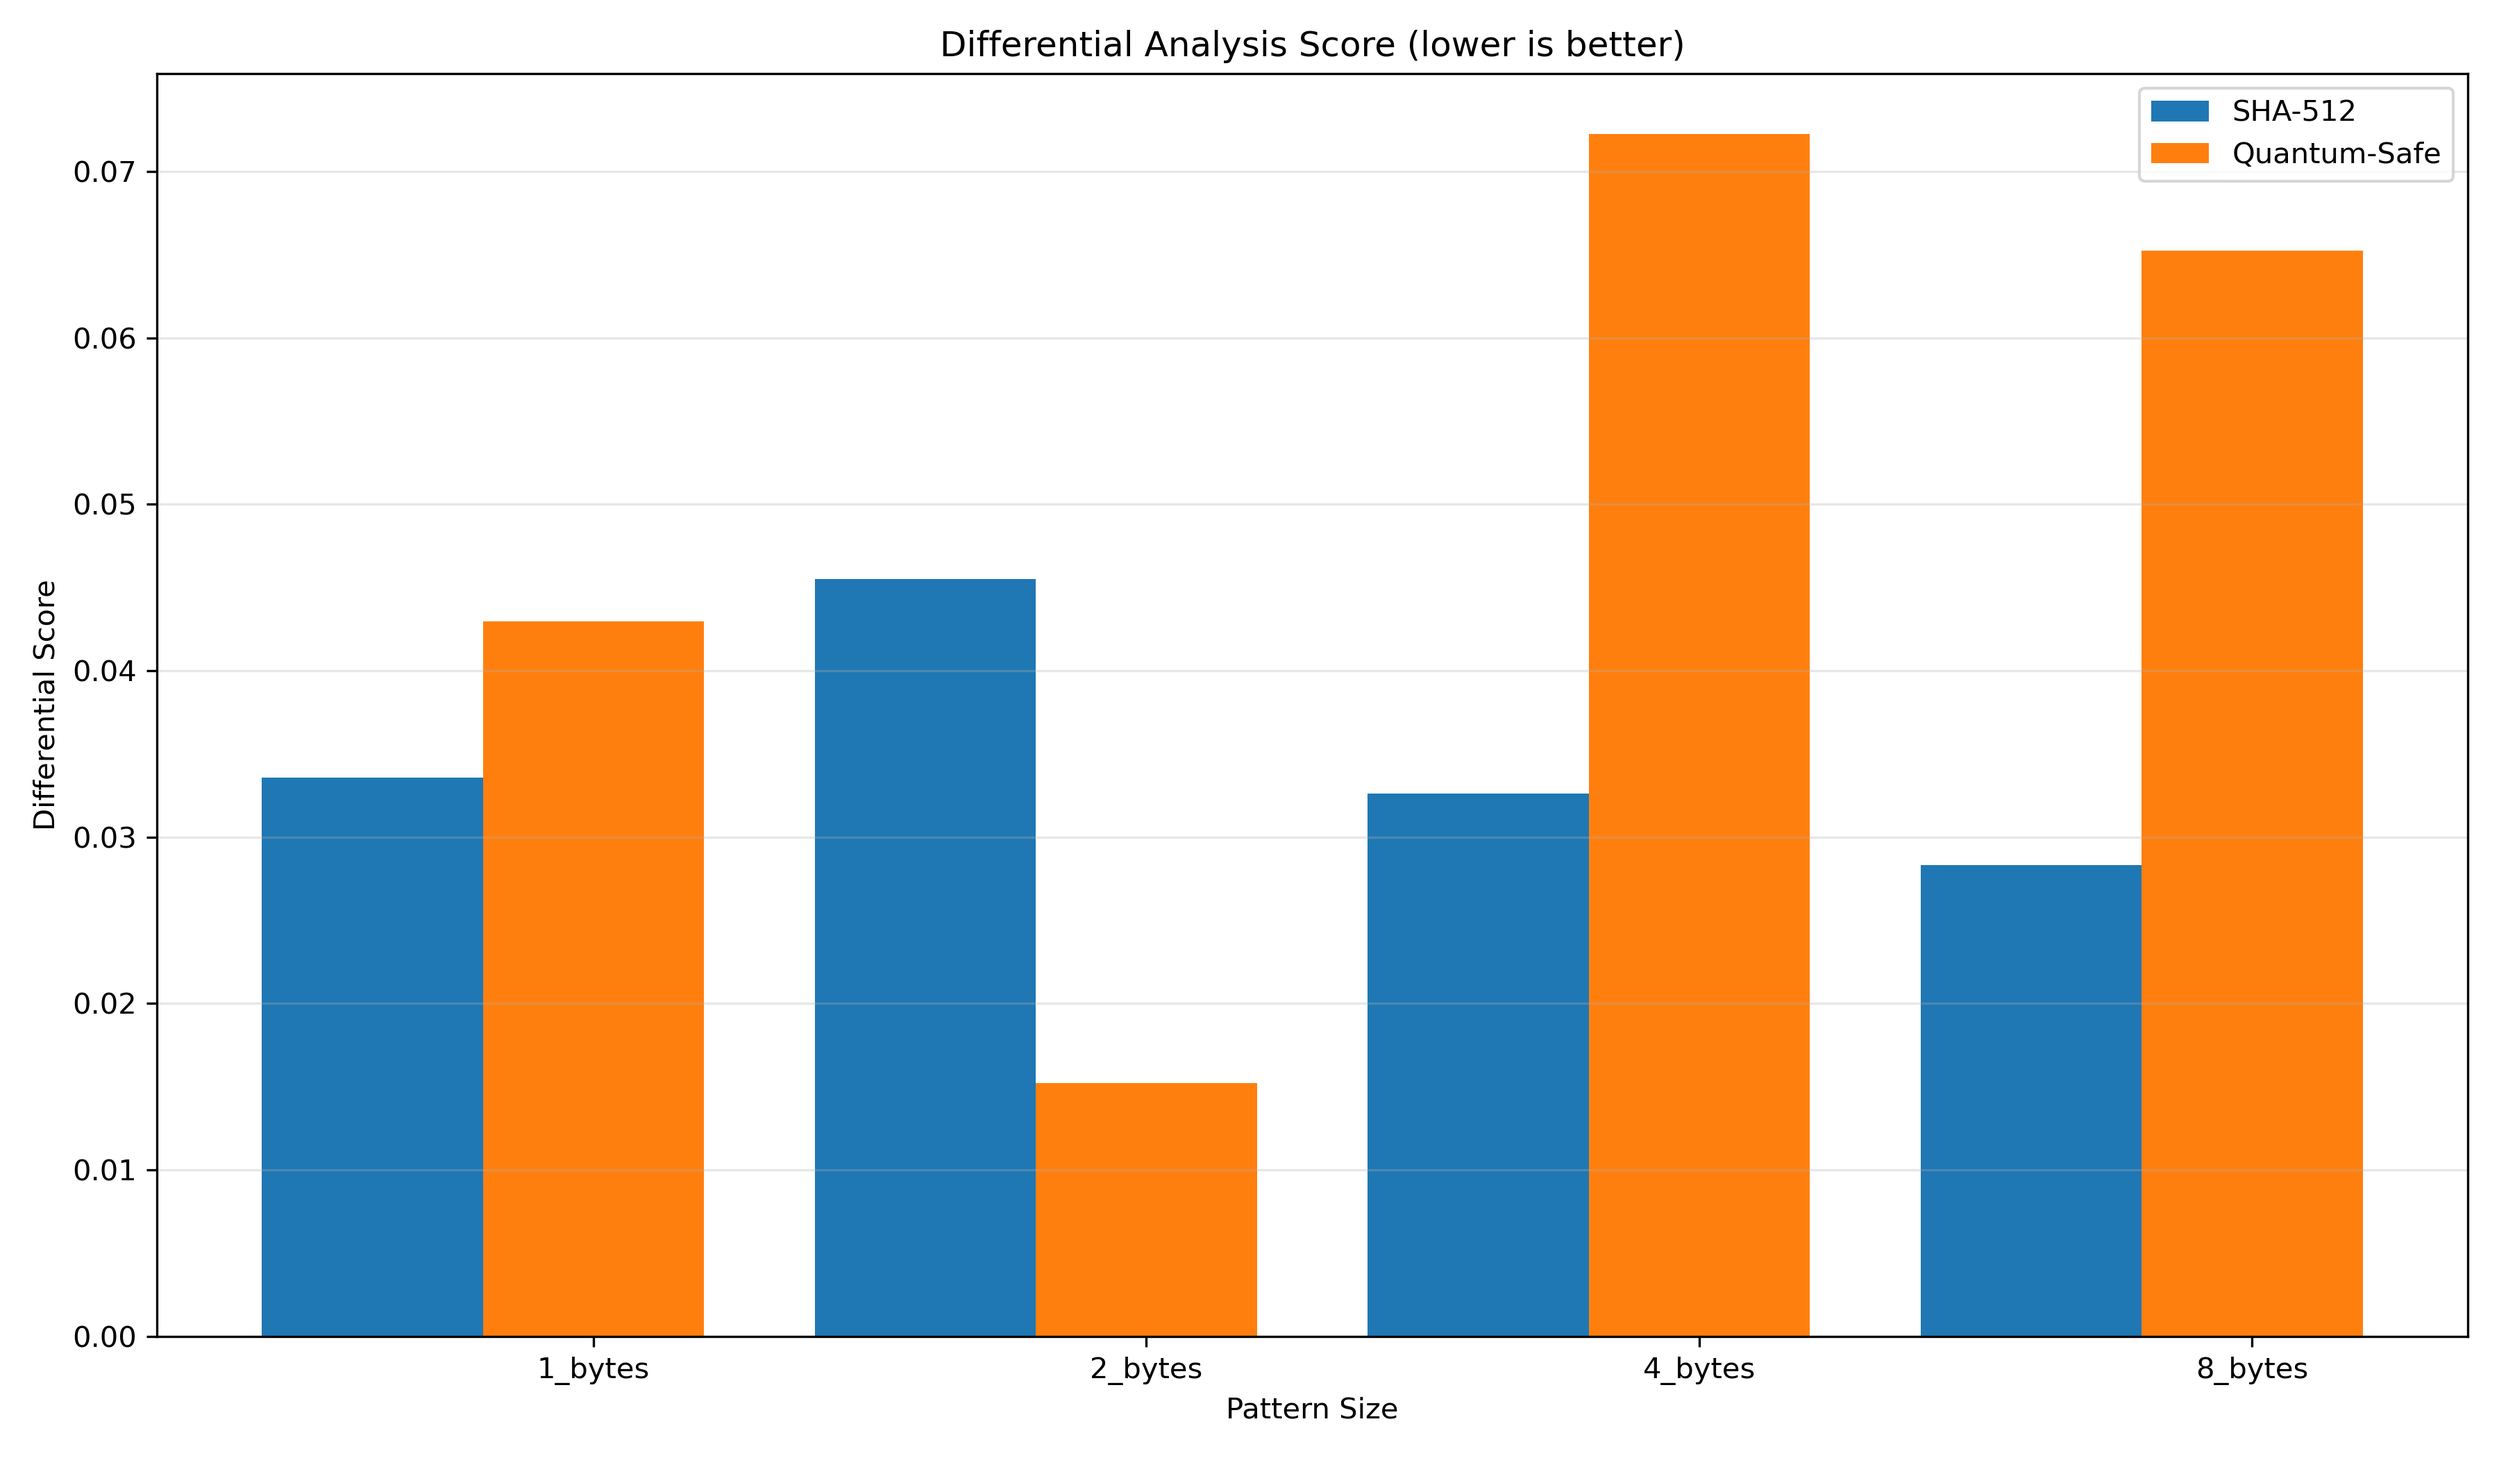
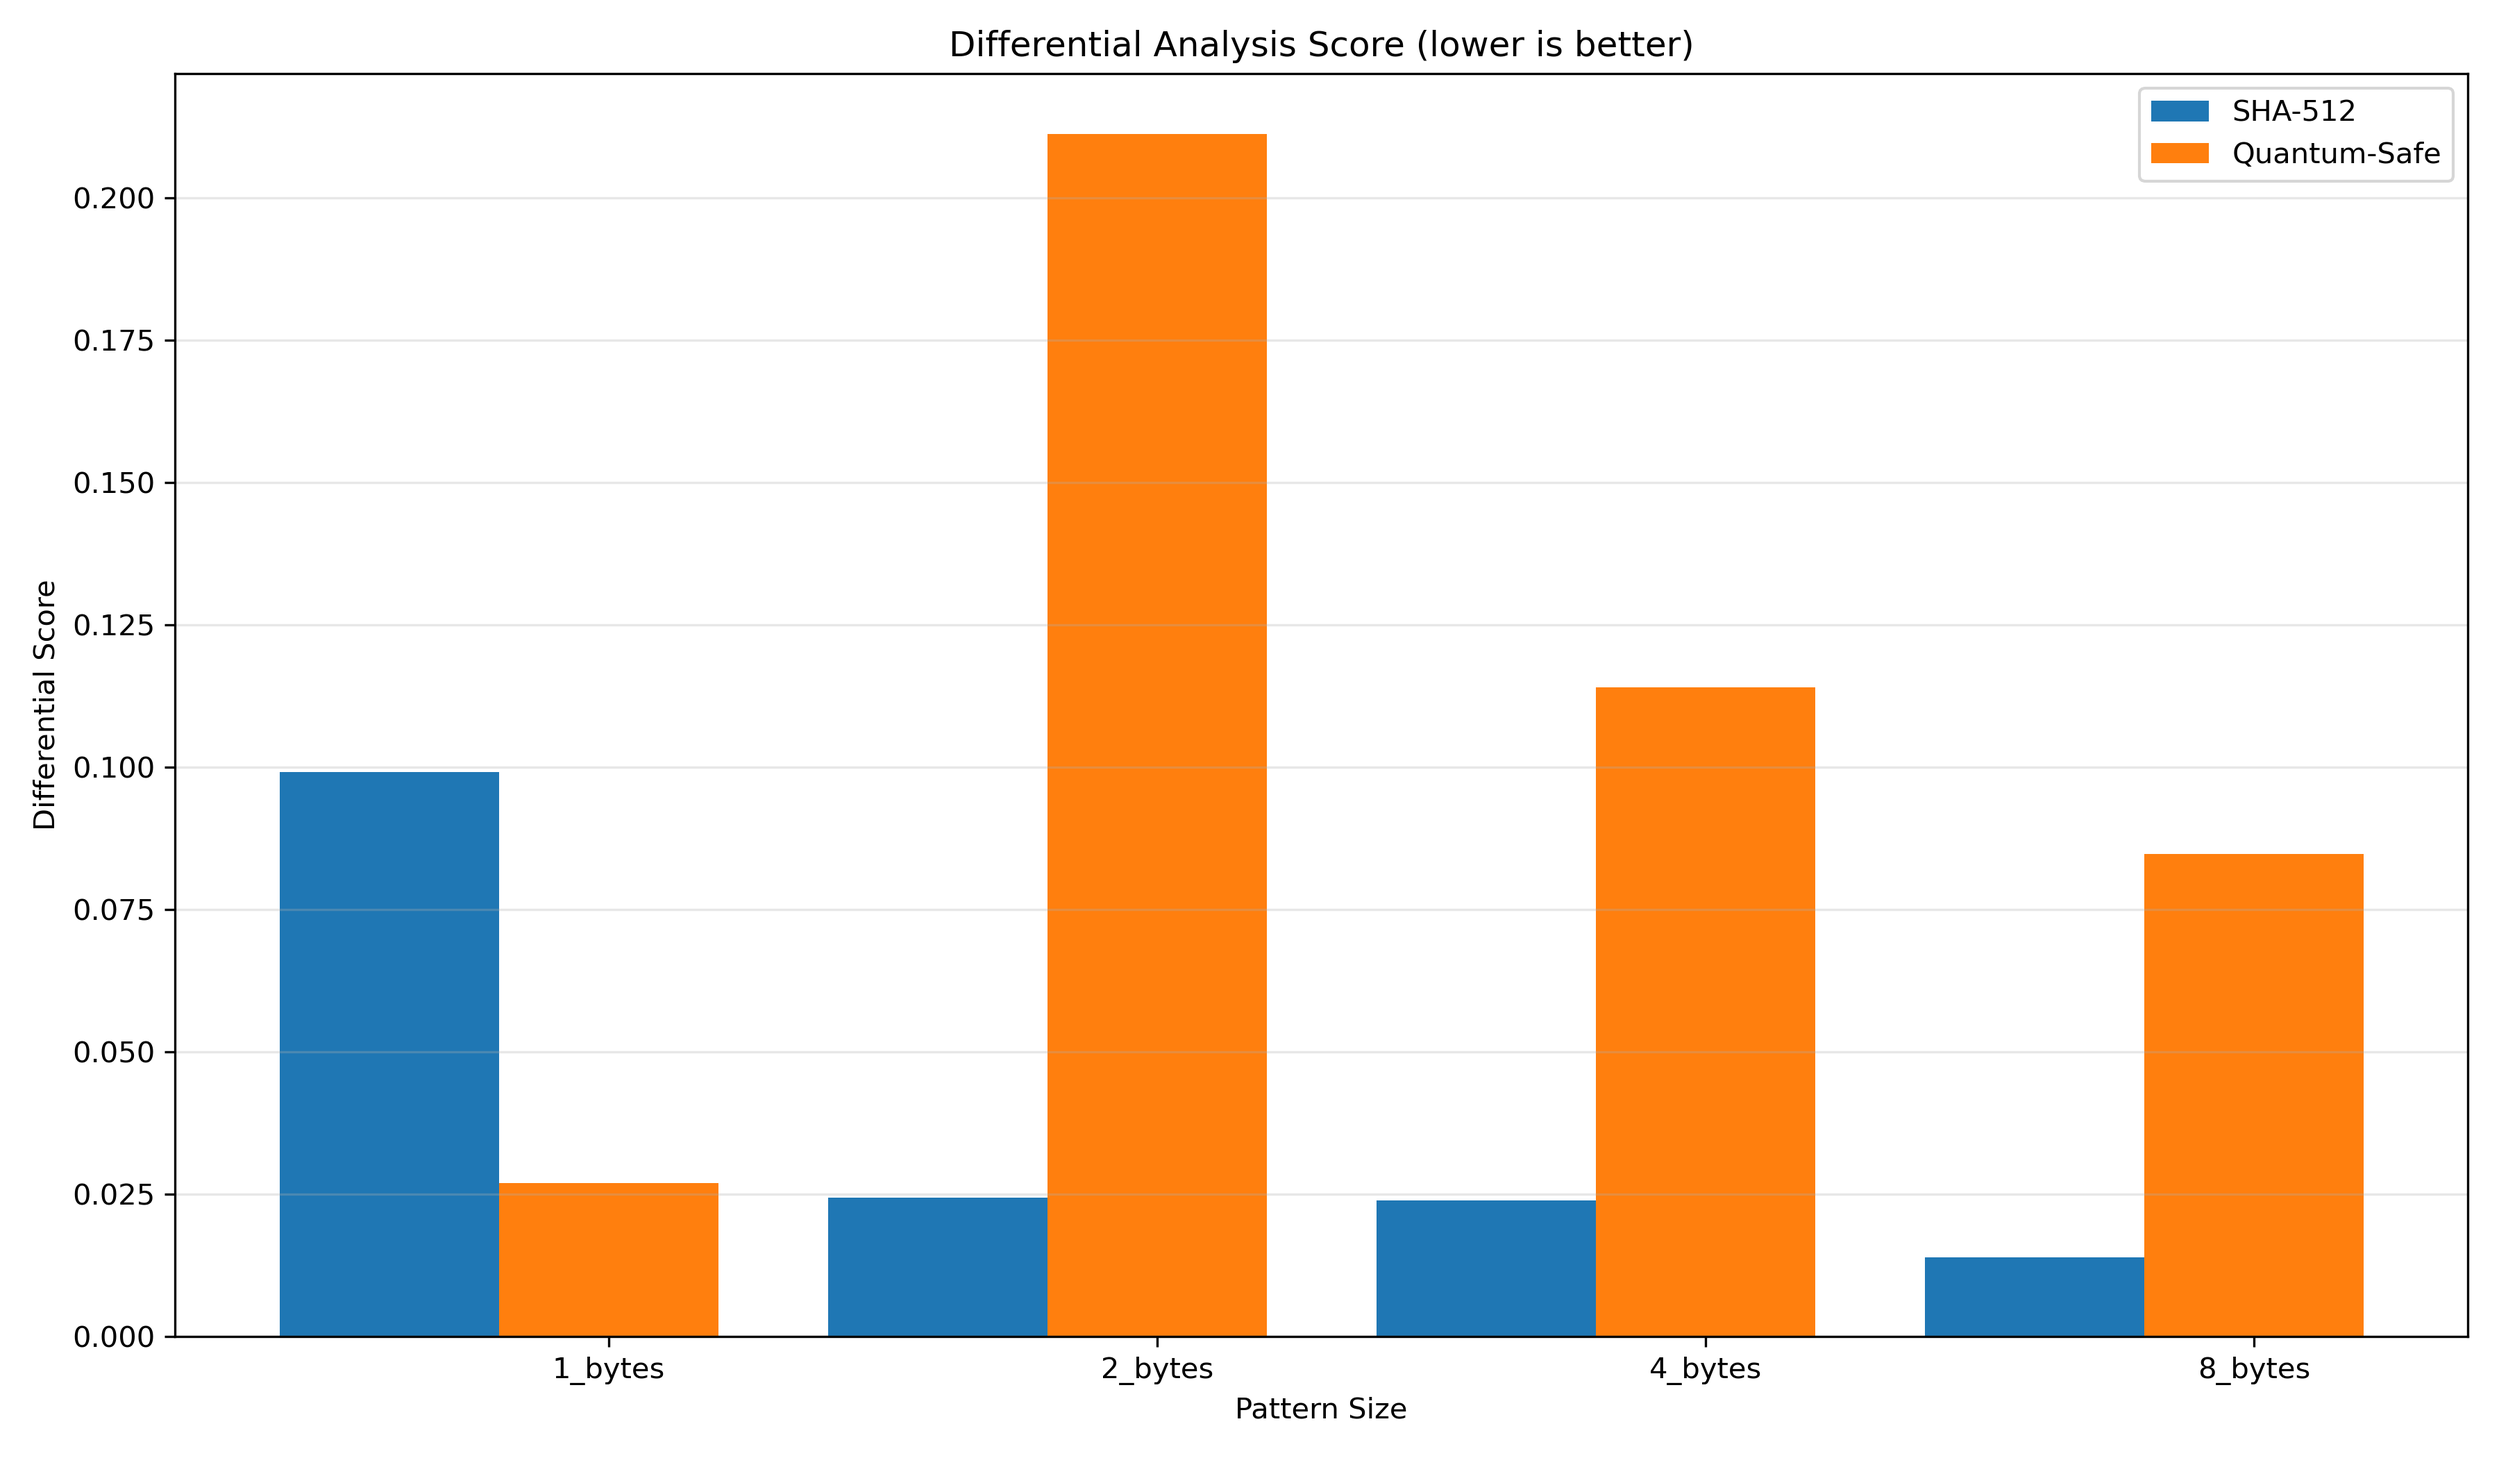
Update hash comparison report and replace outdated benchmark images

diff --git a/main/app3-hash_benchmark_results/hash_function_analysis_report.md b/main/app3-hash_benchmark_results/hash_function_analysis_report.md
@@ -1,5 +1,5 @@
 # Hash Function Comparative Analysis Report
-Generated on: 2025-03-22 14:37:31
+Generated on: 2025-03-24 15:43:40
 
 ## System Information
 - Platform: linux
@@ -18,9 +18,9 @@ Average execution time and throughput:
 +-----------------+---------------------+-----------------+-----------------------+-------------------+------------------------+--------------------+--------------------------+----------------------+
 | Hash Function   |   64 bytes Time (s) |   64 bytes MB/s |   1024 bytes Time (s) |   1024 bytes MB/s |   16384 bytes Time (s) |   16384 bytes MB/s |   1048576 bytes Time (s) |   1048576 bytes MB/s |
 +=================+=====================+=================+=======================+===================+========================+====================+==========================+======================+
-| SHA-512         |           1.027e-06 |           59.43 |            1.7282e-06 |            565.06 |            1.75734e-05 |             889.13 |               0.00108467 |               921.94 |
+| SHA-512         |            6.34e-07 |           96.27 |            1.6577e-06 |            589.12 |            1.74298e-05 |             896.45 |               0.00108271 |               923.61 |
 +-----------------+---------------------+-----------------+-----------------------+-------------------+------------------------+--------------------+--------------------------+----------------------+
-| Quantum-Safe    |           1.516e-06 |           40.26 |            3.691e-06  |            264.58 |            2.24651e-05 |             695.52 |               0.00153587 |               651.1  |
+| Quantum-Safe    |            1.51e-06 |           40.42 |            3.593e-06  |            271.8  |            2.23324e-05 |             699.66 |               0.00186946 |               534.91 |
 +-----------------+---------------------+-----------------+-----------------------+-------------------+------------------------+--------------------+--------------------------+----------------------+
 ```
 
@@ -31,9 +31,9 @@ Score closer to 1.0 indicates better randomness distribution:
 +-----------------+-----------------+---------------+-----------+----------+--------------------+
 | Hash Function   |   Entropy Score |   Chi-Squared | Zeros %   | Ones %   | Distribution       |
 +=================+=================+===============+===========+==========+====================+
-| SHA-512         |               1 |             0 | 50.00%    | 50.00%   | OPTIMAL (p > 0.05) |
+| SHA-512         |               1 |        0      | 50.03%    | 49.97%   | OPTIMAL (p > 0.05) |
 +-----------------+-----------------+---------------+-----------+----------+--------------------+
-| Quantum-Safe    |               1 |             0 | 49.99%    | 50.01%   | OPTIMAL (p > 0.05) |
+| Quantum-Safe    |               1 |        0.0001 | 49.96%    | 50.04%   | OPTIMAL (p > 0.05) |
 +-----------------+-----------------+---------------+-----------+----------+--------------------+
 ```
 
@@ -55,13 +55,13 @@ Ideal score is 50% bit changes (lower ideal_score is better):
 +-----------------+--------------+----------------+-----------+---------------+
 | Hash Function   | Input Size   | Bit Change %   |   Std Dev |   Ideal Score |
 +=================+==============+================+===========+===============+
-| SHA-512         | 64 bytes     | 50.12%         |      2.27 |          0.12 |
+| SHA-512         | 64 bytes     | 50.13%         |      2.22 |          0.13 |
 +-----------------+--------------+----------------+-----------+---------------+
-| SHA-512         | 1024 bytes   | 50.01%         |      2.19 |          0.01 |
+| SHA-512         | 1024 bytes   | 50.07%         |      2.13 |          0.07 |
 +-----------------+--------------+----------------+-----------+---------------+
-| Quantum-Safe    | 64 bytes     | 49.95%         |      3.13 |          0.05 |
+| Quantum-Safe    | 64 bytes     | 50.03%         |      3.16 |          0.03 |
 +-----------------+--------------+----------------+-----------+---------------+
-| Quantum-Safe    | 1024 bytes   | 50.15%         |      3.14 |          0.15 |
+| Quantum-Safe    | 1024 bytes   | 49.87%         |      3.2  |          0.13 |
 +-----------------+--------------+----------------+-----------+---------------+
 ```
 
@@ -71,13 +71,13 @@ Ideal score is 50% bit changes (lower ideal_score is better):
 +------------------+----------+--------------+-----------+----------+------------+
 | Edge Case        | Status   | Time/Error   | Zeros %   | Ones %   | Balanced   |
 +==================+==========+==============+===========+==========+============+
-| empty            | SUCCESS  | 0.000010s    | 49.02%    | 50.98%   | ✓          |
+| empty            | SUCCESS  | 0.000003s    | 49.02%    | 50.98%   | ✓          |
 +------------------+----------+--------------+-----------+----------+------------+
-| large            | SUCCESS  | 0.001058s    | 46.29%    | 53.71%   | ✓          |
+| large            | SUCCESS  | 0.001065s    | 46.29%    | 53.71%   | ✓          |
 +------------------+----------+--------------+-----------+----------+------------+
 | repeated_pattern | SUCCESS  | 0.000008s    | 48.83%    | 51.17%   | ✓          |
 +------------------+----------+--------------+-----------+----------+------------+
-| all_zeros        | SUCCESS  | 0.000002s    | 51.95%    | 48.05%   | ✓          |
+| all_zeros        | SUCCESS  | 0.000003s    | 51.95%    | 48.05%   | ✓          |
 +------------------+----------+--------------+-----------+----------+------------+
 | all_ones         | SUCCESS  | 0.000002s    | 50.39%    | 49.61%   | ✓          |
 +------------------+----------+--------------+-----------+----------+------------+
@@ -98,7 +98,7 @@ Ideal score is 50% bit changes (lower ideal_score is better):
 +==================+==========+==============+===========+==========+============+
 | empty            | SUCCESS  | 0.000004s    | 52.34%    | 47.66%   | ✓          |
 +------------------+----------+--------------+-----------+----------+------------+
-| large            | SUCCESS  | 0.001342s    | 53.52%    | 46.48%   | ✓          |
+| large            | SUCCESS  | 0.001390s    | 53.52%    | 46.48%   | ✓          |
 +------------------+----------+--------------+-----------+----------+------------+
 | repeated_pattern | SUCCESS  | 0.000012s    | 47.27%    | 52.73%   | ✓          |
 +------------------+----------+--------------+-----------+----------+------------+
@@ -123,21 +123,21 @@ Testing how similar input patterns affect output (ideal score is closer to 0):
 +-----------------+-----------+----------------+-----------+--------------+
 | Hash Function   | Pattern   | Bit Change %   |   Std Dev |   Diff Score |
 +=================+===========+================+===========+==============+
-| SHA-512         | 1_bytes   | 49.97%         |      2.16 |         0.03 |
+| SHA-512         | 1_bytes   | 49.90%         |      2.16 |         0.1  |
 +-----------------+-----------+----------------+-----------+--------------+
-| SHA-512         | 2_bytes   | 50.05%         |      2.25 |         0.05 |
+| SHA-512         | 2_bytes   | 50.02%         |      2.22 |         0.02 |
 +-----------------+-----------+----------------+-----------+--------------+
-| SHA-512         | 4_bytes   | 49.97%         |      2.13 |         0.03 |
+| SHA-512         | 4_bytes   | 49.98%         |      2.22 |         0.02 |
 +-----------------+-----------+----------------+-----------+--------------+
-| SHA-512         | 8_bytes   | 49.97%         |      2.13 |         0.03 |
+| SHA-512         | 8_bytes   | 49.99%         |      2.28 |         0.01 |
 +-----------------+-----------+----------------+-----------+--------------+
-| Quantum-Safe    | 1_bytes   | 50.04%         |      3.14 |         0.04 |
+| Quantum-Safe    | 1_bytes   | 49.97%         |      3.09 |         0.03 |
 +-----------------+-----------+----------------+-----------+--------------+
-| Quantum-Safe    | 2_bytes   | 50.02%         |      3.31 |         0.02 |
+| Quantum-Safe    | 2_bytes   | 49.79%         |      3.29 |         0.21 |
 +-----------------+-----------+----------------+-----------+--------------+
-| Quantum-Safe    | 4_bytes   | 50.07%         |      3.15 |         0.07 |
+| Quantum-Safe    | 4_bytes   | 50.11%         |      3.14 |         0.11 |
 +-----------------+-----------+----------------+-----------+--------------+
-| Quantum-Safe    | 8_bytes   | 49.93%         |      3.14 |         0.07 |
+| Quantum-Safe    | 8_bytes   | 49.92%         |      3.09 |         0.08 |
 +-----------------+-----------+----------------+-----------+--------------+
 ```
 
@@ -159,9 +159,9 @@ Testing ability to resist finding an input from a partial output (target: 0000):
 +-----------------+--------------+---------+------------+---------+----------------+----------+
 | Hash Function   | Difficulty   | Found   |   Attempts | Time    | Attempts/sec   | Status   |
 +=================+==============+=========+============+=========+================+==========+
-| SHA-512         | 16 bits      | False   |        100 | 0.0002s | 568663.24/s    | STRONG   |
+| SHA-512         | 16 bits      | False   |        100 | 0.0002s | 554600.41/s    | STRONG   |
 +-----------------+--------------+---------+------------+---------+----------------+----------+
-| Quantum-Safe    | 16 bits      | False   |        100 | 0.0003s | 329416.57/s    | STRONG   |
+| Quantum-Safe    | 16 bits      | False   |        100 | 0.0003s | 353074.93/s    | STRONG   |
 +-----------------+--------------+---------+------------+---------+----------------+----------+
 ```
 
@@ -179,7 +179,7 @@ Testing ability to resist finding an input from a partial output (target: 0000):
 ## Conclusion
 Based on the benchmark results:
 
-1. **SHA-512**: Overall Score: 0.9996
-   - Performance: 1.0000, Entropy: 1.0000, Avalanche: 0.9987, Collision Resistance: Passed
-2. **Quantum-Safe**: Overall Score: 0.9113
-   - Performance: 0.7062, Entropy: 1.0000, Avalanche: 0.9980, Collision Resistance: Passed
+1. **SHA-512**: Overall Score: 0.9994
+   - Performance: 1.0000, Entropy: 1.0000, Avalanche: 0.9980, Collision Resistance: Passed
+2. **Quantum-Safe**: Overall Score: 0.8733
+   - Performance: 0.5792, Entropy: 1.0000, Avalanche: 0.9985, Collision Resistance: Passed

diff --git a/prototype/hash_benchmark_results/hash_comparison_report.md b/prototype/hash_benchmark_results/hash_comparison_report.md
@@ -1,5 +1,5 @@
 # Hash Function Comparative Analysis Report
-Generated on: 2025-03-22 14:38:10
+Generated on: 2025-03-24 15:42:24
 
 ## Sample Hash Outputs
[1 lines of base64/hex data omitted]
@@ -13,9 +13,9 @@ Average execution time in seconds:
 +-------------------+------------+--------------+---------------+
 | Hash Function     |   64 bytes |   1024 bytes |   16384 bytes |
 +===================+============+==============+===============+
-| SHA-512           | 6.621e-07  |   2.5588e-06 |   1.77453e-05 |
+| SHA-512           | 6.603e-07  |   1.9956e-06 |   1.77819e-05 |
 +-------------------+------------+--------------+---------------+
-| Quantum-Safe Hash | 1.4938e-06 |   3.574e-06  |   2.22865e-05 |
+| Quantum-Safe Hash | 1.5553e-06 |   3.6114e-06 |   2.25542e-05 |
 +-------------------+------------+--------------+---------------+
 ```
 
@@ -61,9 +61,9 @@ Ideal score is 50% bit changes (lower ideal_score is better):
 +-------------------+----------------+---------------+
 | Hash Function     | Bit Change %   |   Ideal Score |
 +===================+================+===============+
-| SHA-512           | 50.00%         |          0    |
+| SHA-512           | 49.98%         |          0.02 |
 +-------------------+----------------+---------------+
-| Quantum-Safe Hash | 49.95%         |          0.05 |
+| Quantum-Safe Hash | 49.91%         |          0.09 |
 +-------------------+----------------+---------------+
 ```
 
